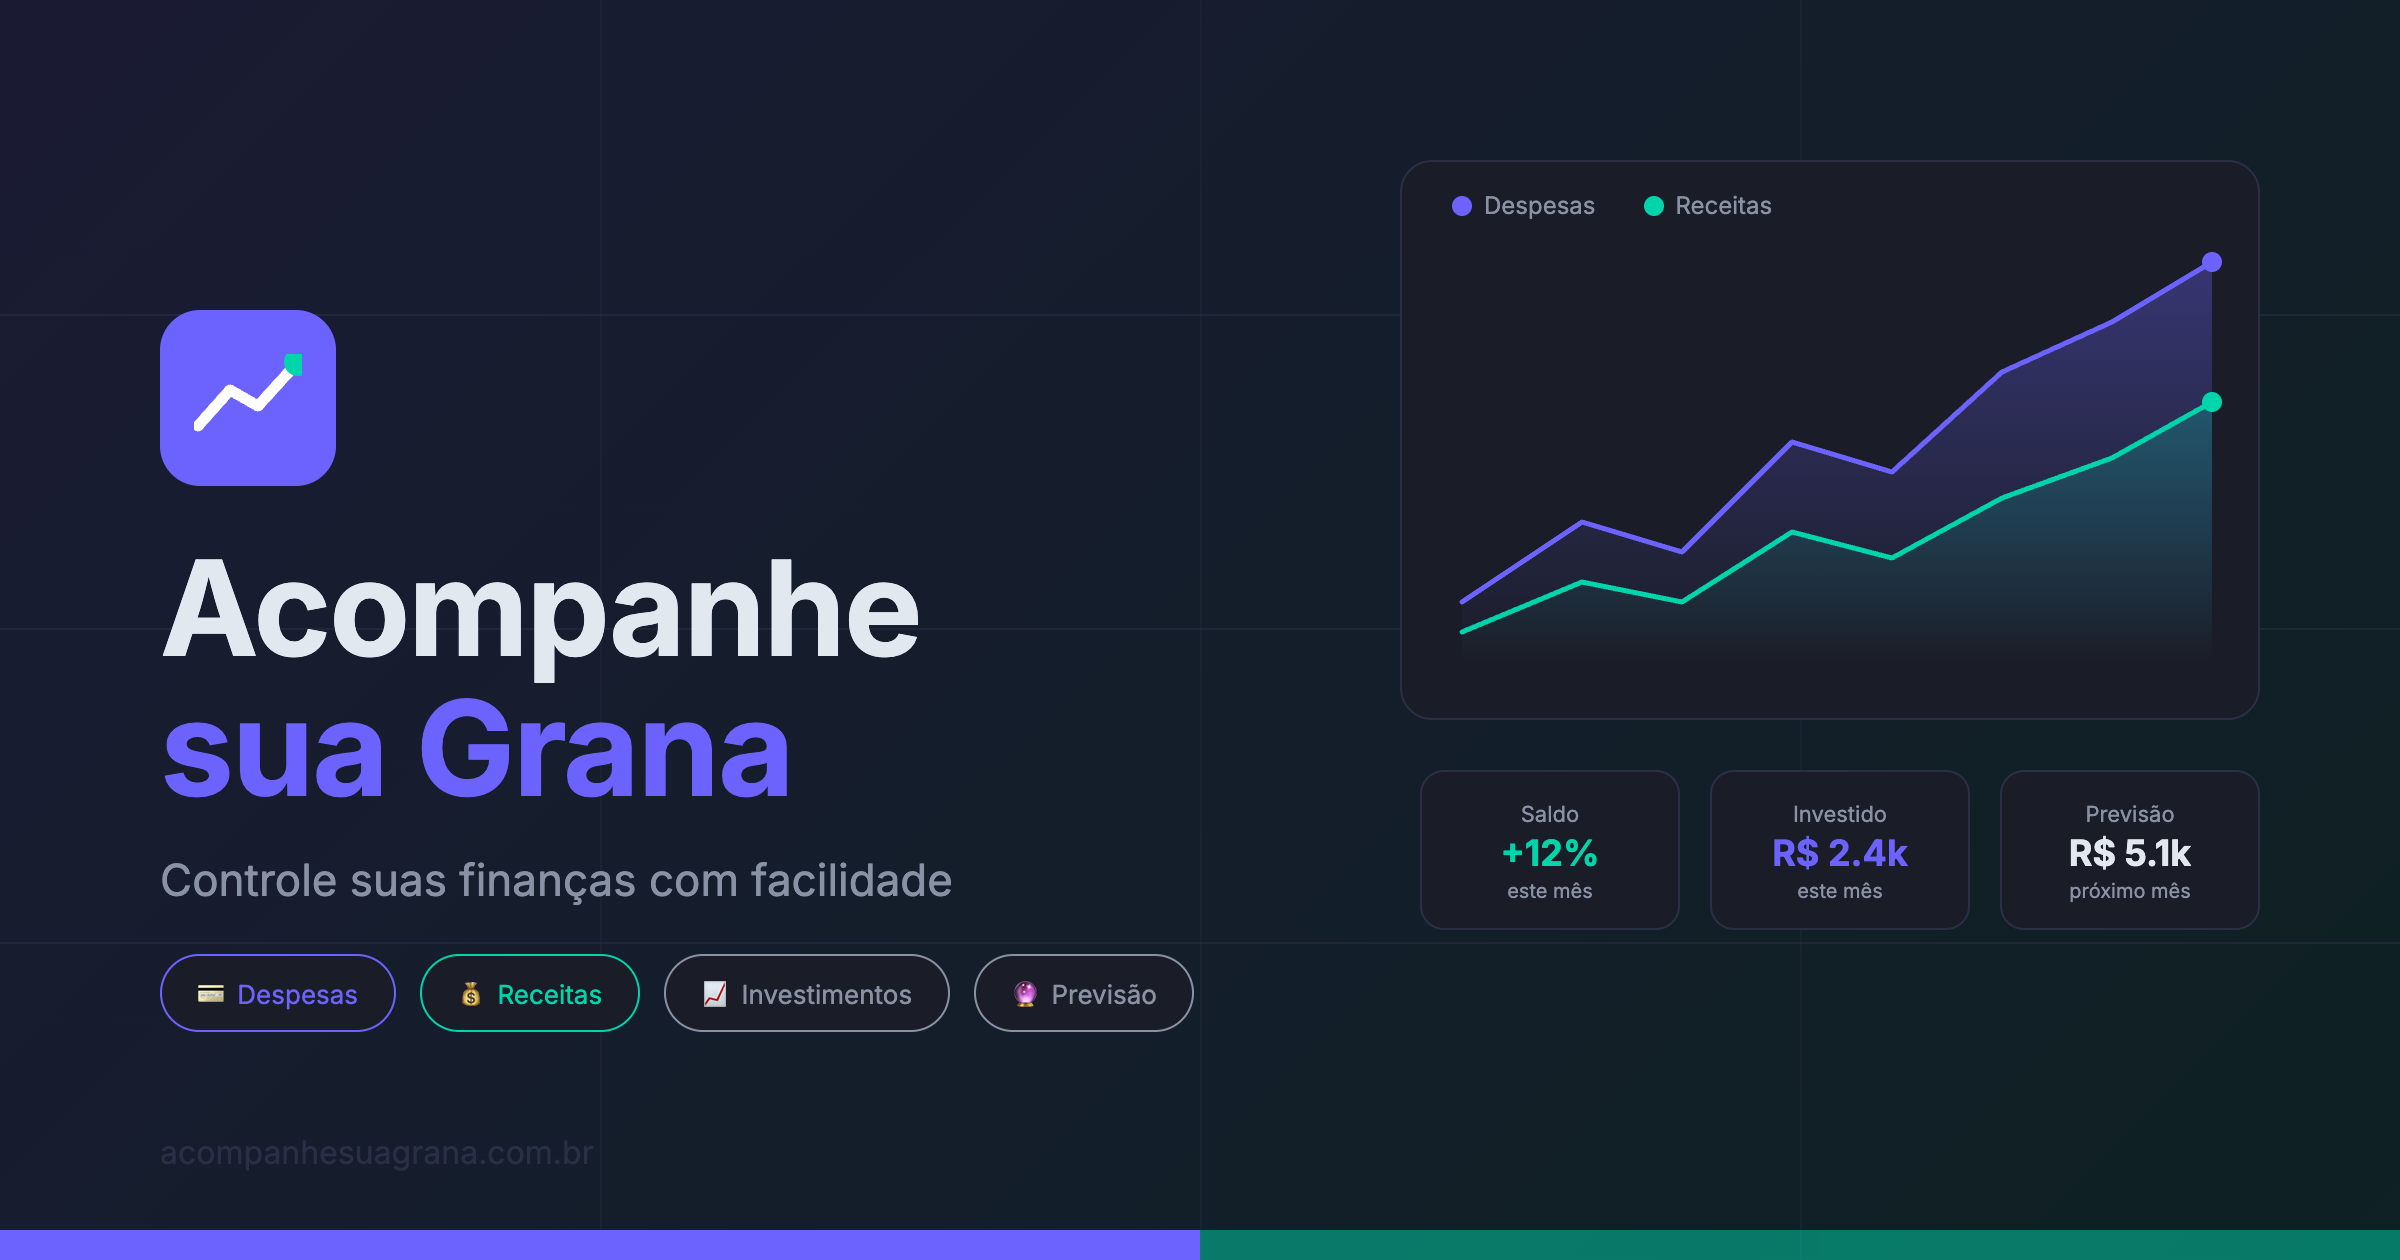
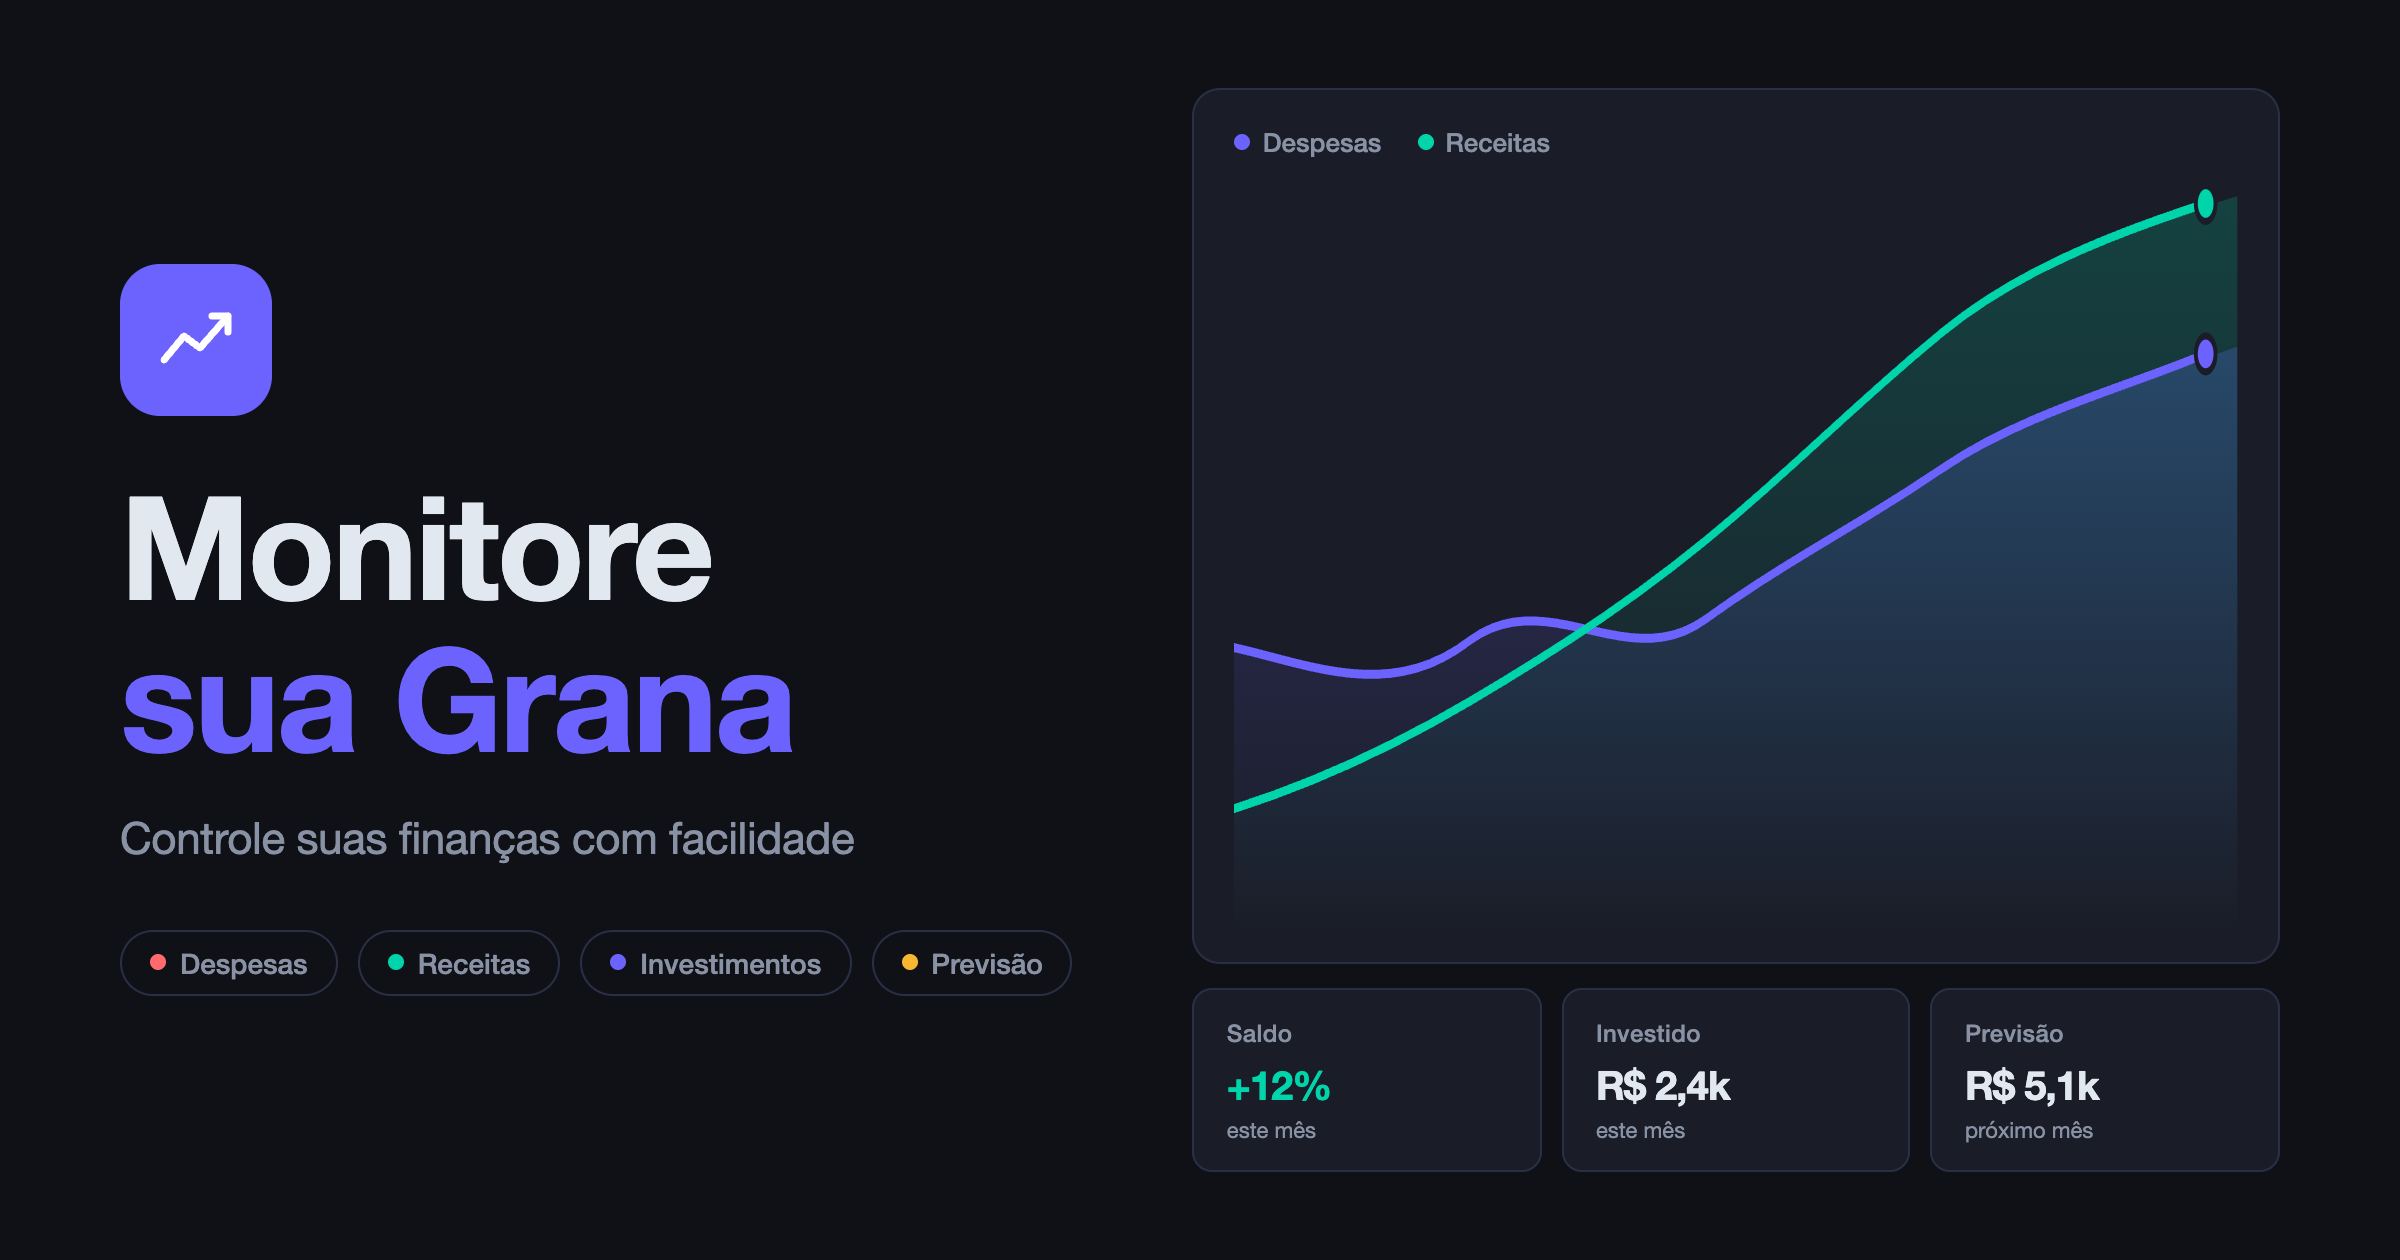
Rebranded

diff --git a/db/seeds.rb b/db/seeds.rb
@@ -1,9 +1,9 @@
-# Seeds — Acompanhe sua Grana
+# Seeds — Monitore sua Grana
 # Creates a demo user with realistic sample data for development
 
 puts "Creating demo user..."
 
-user = User.find_or_create_by!(email: "demo@acompanhesuagrana.com.br") do |u|
+user = User.find_or_create_by!(email: "demo@monitoresuagrana.com.br") do |u|
   u.password = "password"
   u.password_confirmation = "password"
   u.name = "Demo User"
@@ -126,4 +126,4 @@ puts "Creating sample investments..."
 end
 
 puts "\nSeeding complete!"
-puts "Login: demo@acompanhesuagrana.com.br / password123"
+puts "Login: demo@monitoresuagrana.com.br / password123"

diff --git a/config/application.rb b/config/application.rb
@@ -18,7 +18,7 @@ require "action_cable/engine"
 # you've limited to :test, :development, or :production.
 Bundler.require(*Rails.groups)
 
-module Acompanhesuagrana
+module Monitoresuagrana
   class Application < Rails::Application
     # Initialize configuration defaults for originally generated Rails version.
     config.load_defaults 8.1
